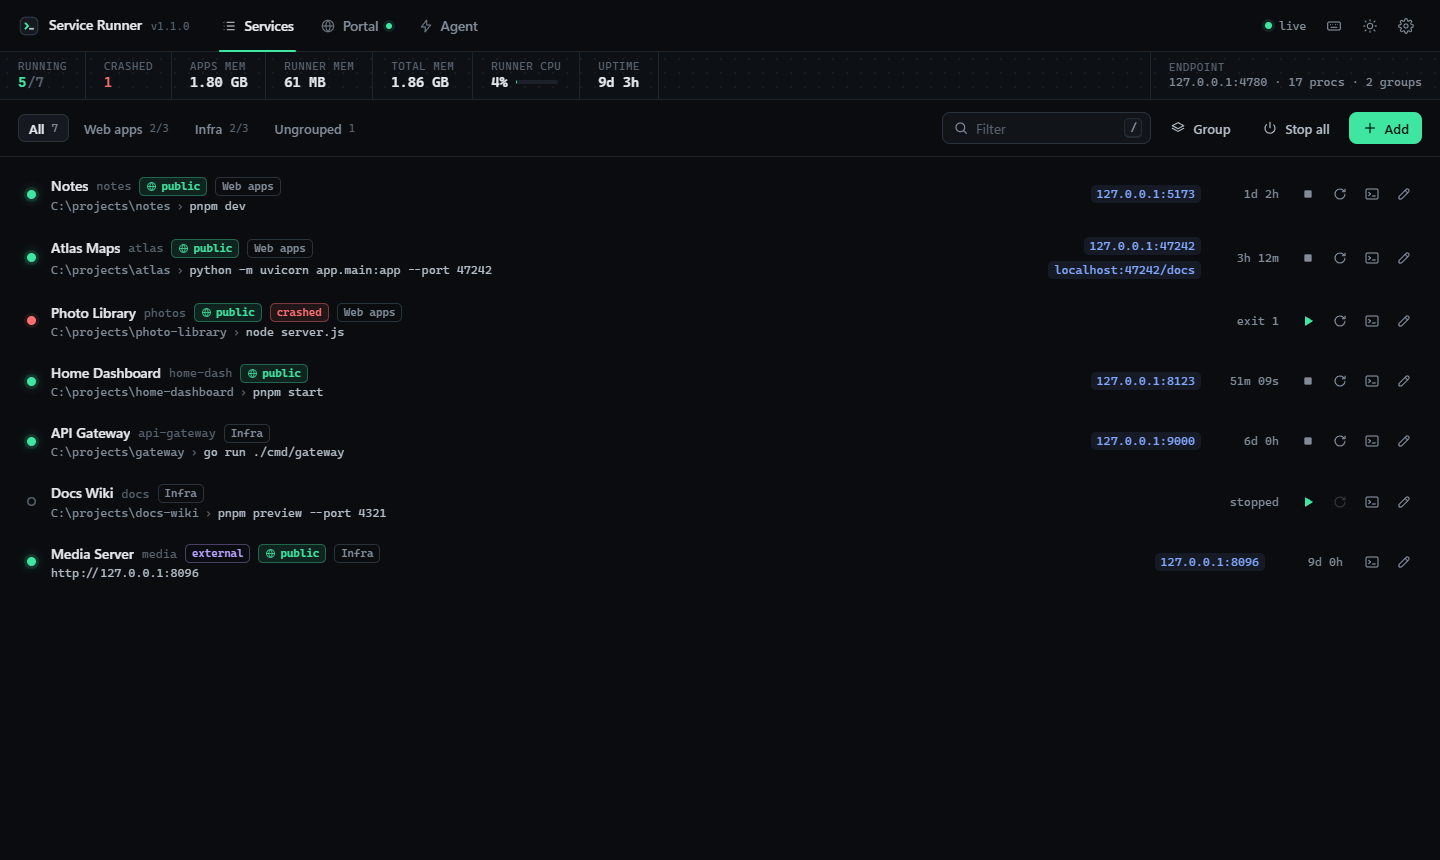
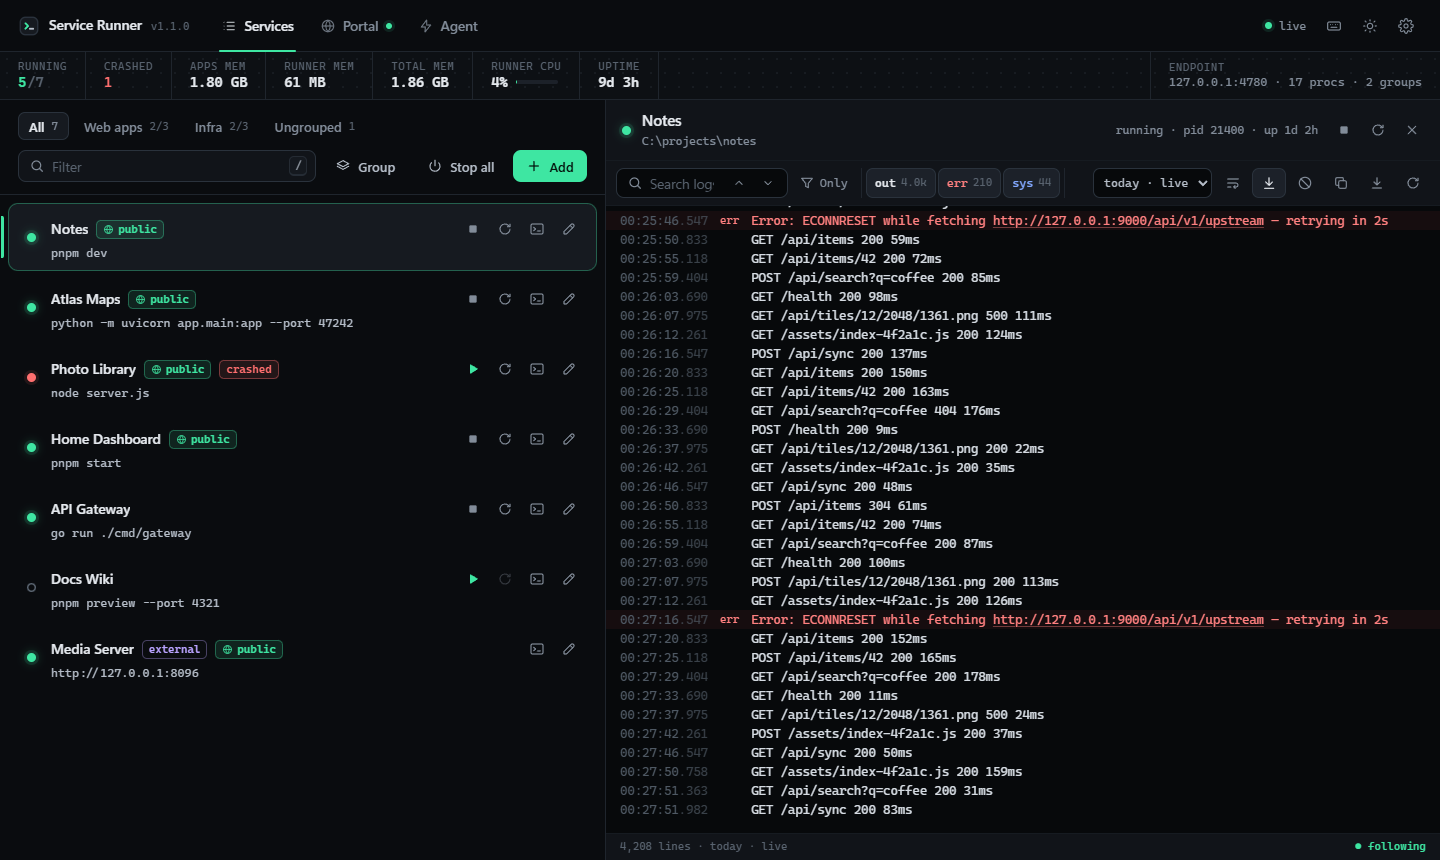
README: new screenshots and a Portal section
- Replace the old landing/dashboard images with the new control panel
  and the public portal, both captured from demo data.
- Document the Portal: one access token, path-based apps, bypass paths,
  external apps, Tailscale detection, and setup steps.
- `pnpm screenshot` now runs scripts/demo-server.mjs (fake data on
  4798/4799) instead of capturing a live Service Runner.

diff --git a/README.md b/README.md
@@ -5,7 +5,29 @@ Windows tray supervisor for local long-running web apps. Open source under the *
 **Site → [entangledquantum.github.io/service-runner](https://entangledquantum.github.io/service-runner/)**  
 Install, uninstall, how it works, and the live UI are all there. This repo is the source.
 
-![Landing](docs/screenshots/landing.png)
+![Control panel](docs/screenshots/control-panel.png)
+
+One local control panel for every long-running app on the machine: start, stop, restart, groups, live logs with search and filters, and an API agents use to register apps. It listens on `127.0.0.1` only.
+
+## Portal — your apps from anywhere
+
+![Portal](docs/screenshots/portal-home.png)
+
+Service Runner can also run a **Portal**: a clean, login-protected home page that publishes the apps you choose to the internet. The control panel itself is never exposed.
+
+- **One access token.** Sign in once per device and stay signed in. The Portal tab lists every signed-in device so you can revoke any of them, and generating a new token signs everyone out.
+- **Path-based apps.** Each published app lives under its own path (`/notes`, `/photos`, …) and opens from a tile. WebSockets and streaming work through the proxy.
+- **Apps keep their own login.** Paths an app protects itself (mobile APIs, OPDS feeds, …) can bypass the portal login.
+- **External apps.** Apps running elsewhere, such as in Docker, can be published too. Service Runner only health-checks them.
+- **Tailscale built in.** The Portal tab detects Tailscale. It offers an install button if Tailscale is missing, gives you the one-line Funnel command if the portal isn't exposed yet, and shows your public URL once it's live.
+
+To set it up:
+
+1. Turn on the gateway on the **Portal** tab and generate an access token.
+2. In a service's editor, expand **Publish to portal** and pick a path. The app must work behind a path prefix; the portal sends `X-Forwarded-Prefix`.
+3. Expose the portal with Tailscale Funnel (`tailscale funnel --bg 4790`) or any tunnel that points at `127.0.0.1:4790`.
+
+The full contract is in [docs/portal-spec.md](docs/portal-spec.md).
 
 ## Install (Windows)
 
